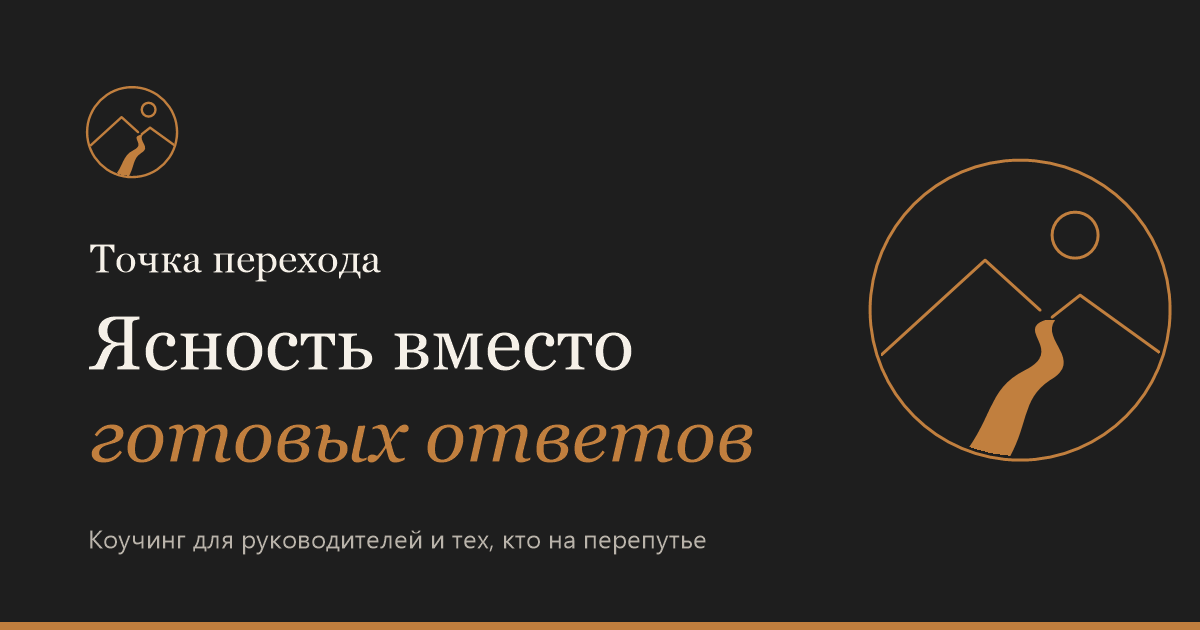
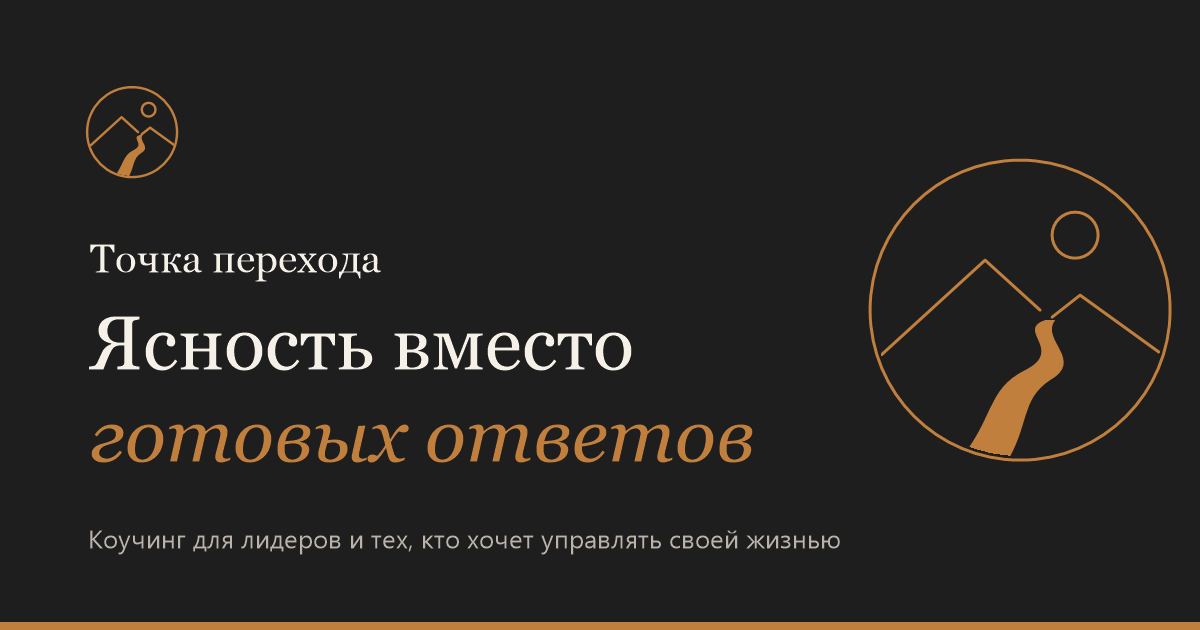
Новые фото и подзаголовок
Все фото заменены: лестница на первом экране, нити, кубик и камни
в «Что вы получаете», рука с ручкой в «Обо мне», знак LEAD AND
FOLLOW у «Роли руководителя», разговор и фото под водой в шагах,
портрет с ярлыками у чек-листа. Подзаголовок: «Коучинг для лидеров
и тех, кто хочет управлять своей жизнью», og-image обновлён.

Changed region(s): [[0.185, 0.8444, 0.7092, 0.8746]]

diff --git a/index.html b/index.html
@@ -3,16 +3,16 @@
 <head>
 <meta charset="utf-8">
 <meta name="viewport" content="width=device-width, initial-scale=1, viewport-fit=cover">
-<title>Точка перехода — коучинг для руководителей и тех, кто на перепутье</title>
+<title>Точка перехода — коучинг для лидеров и тех, кто хочет управлять своей жизнью</title>
 <meta name="description" content="Индивидуальный онлайн-коучинг: ясность в карьерных и жизненных переходах, поддержка руководителей. Ясность вместо готовых ответов.">
 <meta name="theme-color" content="#1E1E1E">
 <meta property="og:type" content="website">
 <meta property="og:locale" content="ru_RU">
-<meta property="og:title" content="Точка перехода — коучинг для руководителей и тех, кто на перепутье">
+<meta property="og:title" content="Точка перехода — коучинг для лидеров и тех, кто хочет управлять своей жизнью">
 <meta property="og:description" content="Индивидуальный онлайн-коучинг: ясность в карьерных и жизненных переходах, поддержка руководителей. Ясность вместо готовых ответов.">
 <meta property="og:site_name" content="Точка перехода">
 <meta name="twitter:card" content="summary_large_image">
-<meta name="twitter:title" content="Точка перехода — коучинг для руководителей и тех, кто на перепутье">
+<meta name="twitter:title" content="Точка перехода — коучинг для лидеров и тех, кто хочет управлять своей жизнью">
 <meta name="twitter:description" content="Индивидуальный онлайн-коучинг: ясность в карьерных и жизненных переходах, поддержка руководителей.">
 <link rel="canonical" href="https://igor-fedianin.com/">
 <meta property="og:url" content="https://igor-fedianin.com/">
@@ -100,10 +100,10 @@
 
   <!-- Hero: фото на всю ширину -->
   <section class="hero" id="top">
-    <img class="hero-bg" src="img/hero-transition.jpg" width="975" height="1300" alt="" fetchpriority="high">
+    <img class="hero-bg" src="img/hero-stairs.jpg" width="1920" height="1080" alt="" fetchpriority="high">
     <div class="wrap hero-inner">
       <div class="hero-main">
-        <p class="hero-eyebrow"><span class="dot" aria-hidden="true"></span>Коучинг для руководителей и тех, кто на перепутье</p>
+        <p class="hero-eyebrow"><span class="dot" aria-hidden="true"></span>Коучинг для лидеров и тех, кто хочет управлять своей жизнью</p>
         <h1>Ясность вместо<br><span class="h1-accent"><span class="arrow" aria-hidden="true">→</span> готовых ответов</span></h1>
       </div>
       <div class="hero-side">
@@ -125,19 +125,19 @@
         <article class="gain-card">
           <span class="check" aria-hidden="true"><svg viewBox="0 0 24 24"><path d="M6 12.5l4 4 8-9" fill="none" stroke="currentColor" stroke-width="2.2" stroke-linecap="round" stroke-linejoin="round"/></svg></span>
           <h3>Ясная картина<br>ситуации</h3>
-          <figure class="rounded-img"><img src="img/session-chairs.jpg" width="960" height="1200" alt="Два кресла напротив друг друга у светлого окна, двое людей во время разговора" loading="lazy"></figure>
+          <figure class="rounded-img"><img src="img/gain-thread.jpg" width="1400" height="933" alt="Руки, запутанные в красной нити" loading="lazy"></figure>
           <p>Вы отделяете факты от опасений и видите, что на самом деле происходит.</p>
         </article>
         <article class="gain-card">
           <span class="check" aria-hidden="true"><svg viewBox="0 0 24 24"><path d="M6 12.5l4 4 8-9" fill="none" stroke="currentColor" stroke-width="2.2" stroke-linecap="round" stroke-linejoin="round"/></svg></span>
           <h3>Реальные варианты<br>и критерии выбора</h3>
-          <figure class="rounded-img"><img src="img/mood-reading.jpg" width="736" height="980" alt="Человек в очках читает книгу у окна, чёрно-белое фото" loading="lazy"></figure>
+          <figure class="rounded-img"><img src="img/gain-cube.jpg" width="731" height="1300" alt="Разноцветный кубик Рубика в процессе сборки" loading="lazy"></figure>
           <p>Понятно, какие пути действительно существуют и по каким критериям между ними выбирать.</p>
         </article>
         <article class="gain-card">
           <span class="check" aria-hidden="true"><svg viewBox="0 0 24 24"><path d="M6 12.5l4 4 8-9" fill="none" stroke="currentColor" stroke-width="2.2" stroke-linecap="round" stroke-linejoin="round"/></svg></span>
           <h3>Конкретный<br>следующий шаг</h3>
-          <figure class="rounded-img"><img src="img/mood-key.jpg" width="1040" height="1300" alt="Латунный ключ на ручке зелёной двери" loading="lazy"></figure>
+          <figure class="rounded-img"><img src="img/gain-stones.jpg" width="975" height="1300" alt="Рука кладёт верхний камень на пирамиду из камней у реки" loading="lazy"></figure>
           <p>Каждая сессия заканчивается ближайшими действиями, а не общим «надо что-то менять».</p>
         </article>
       </div>
@@ -164,7 +164,7 @@
   <!-- Обо мне -->
   <section class="section white" id="about" aria-labelledby="about-h">
     <div class="wrap about">
-      <figure class="about-photo"><img src="img/igor.jpg" width="867" height="1300" alt="Игорь, коуч" loading="lazy"></figure>
+      <figure class="about-photo"><img src="img/about-writing.jpg" width="1400" height="933" alt="Рука с ручкой над листами на деревянном столе, рядом чашка" loading="lazy"></figure>
       <div class="about-text">
         <p class="eyebrow">Обо мне</p>
         <h2 id="about-h">Игорь</h2>
@@ -185,10 +185,10 @@
       </div>
       <div class="req-grid">
         <article class="req-card req-photo">
-          <img src="img/mood-sculpture.jpg" width="736" height="1104" alt="" loading="lazy">
+          <img src="img/req-lead.jpg" width="866" height="1300" alt="" loading="lazy">
           <div class="req-body">
-            <h3>Карьерные развилки</h3>
-            <ul><li>Уходить или оставаться на текущей работе</li><li>Смена профессии или начало с нуля</li></ul>
+            <h3>Роль руководителя</h3>
+            <ul><li>Переход из специалиста в руководителя</li><li>Повышение есть, а роста больше нет</li></ul>
           </div>
         </article>
         <article class="req-card">
@@ -205,8 +205,8 @@
         </article>
         <article class="req-card">
           <div class="req-body">
-            <h3>Роль руководителя</h3>
-            <ul><li>Переход из специалиста в руководителя</li><li>Повышение есть, а роста больше нет</li></ul>
+            <h3>Карьерные развилки</h3>
+            <ul><li>Уходить или оставаться на текущей работе</li><li>Смена профессии или начало с нуля</li></ul>
           </div>
         </article>
       </div>
@@ -234,8 +234,8 @@
         </ol>
       </div>
       <div class="approach-photos">
-        <figure class="rounded-img tall"><img src="img/mood-room.jpg" width="736" height="981" alt="Спокойная комната с лампой, двое людей беседуют в креслах" loading="lazy"></figure>
-        <figure class="rounded-img"><img src="img/mood-door.jpg" width="731" height="1300" alt="Деревянная дверь под светящейся вывеской вечером" loading="lazy"></figure>
+        <figure class="rounded-img tall"><img src="img/approach-talk.jpg" width="866" height="1300" alt="Двое людей разговаривают за столом, вид через стекло" loading="lazy"></figure>
+        <figure class="rounded-img"><img src="img/approach-water.jpg" width="975" height="1300" alt="Мужчина в белой рубашке под водой с закрытыми глазами" loading="lazy"></figure>
       </div>
     </div>
   </section>
@@ -247,6 +247,8 @@
         <p class="eyebrow">Если вы узнаёте себя</p>
         <h2 id="pains-h">С этими мыслями<br>приходят чаще всего</h2>
       </div>
+      <div class="pains-layout">
+      <figure class="rounded-img pains-photo"><img src="img/pains-labels.jpg" width="867" height="1300" alt="Чёрно-белый портрет: на лице наклеены бумажки со словами-ярлыками" loading="lazy"></figure>
       <ul class="pains">
         <li>Не понимаю, пора уходить или я просто устал.</li>
         <li>Боюсь начинать заново после многих лет в одной профессии.</li>
@@ -259,6 +261,7 @@
         <li>Команда перестала меня слышать.</li>
         <li>Мне неловко говорить о своих достижениях: кажется, что хвастаюсь.</li>
       </ul>
+      </div>
       <p class="pains-foot">Мы не ищем правильный ответ. Мы выясняем, что именно для вас сейчас важно.</p>
     </div>
   </section>

diff --git a/style.css b/style.css
@@ -122,7 +122,7 @@ main [id] { scroll-margin-top: 110px; }
 
 /* hero */
 .hero { position: relative; overflow: hidden; background: var(--graphite); color: var(--paper); }
-.hero-bg { position: absolute; inset: 0; width: 100%; height: 100%; object-fit: cover; object-position: 50% 30%; }
+.hero-bg { position: absolute; inset: 0; width: 100%; height: 100%; object-fit: cover; object-position: 82% 50%; }
 .hero::after {
   content: ""; position: absolute; inset: 0;
   background:
@@ -161,7 +161,7 @@ main [id] { scroll-margin-top: 110px; }
 /* обо мне */
 .about { display: grid; gap: 40px; align-items: center; }
 .about-photo { border-radius: var(--r); overflow: hidden; aspect-ratio: 4 / 5; max-width: 460px; width: 100%; background: var(--line); }
-.about-photo img { width: 100%; height: 100%; object-fit: cover; object-position: 50% 30%; }
+.about-photo img { width: 100%; height: 100%; object-fit: cover; object-position: 50% 50%; }
 .about-text { display: grid; gap: 18px; max-width: 58ch; min-width: 0; }
 .about-text h2 { font-size: clamp(40px, 8vw, 60px); }
 .about-text p:not(.eyebrow) { color: var(--muted); }
@@ -197,7 +197,9 @@ main [id] { scroll-margin-top: 110px; }
 .approach-photos .rounded-img.tall { margin-top: 40px; }
 
 /* чек-лист */
-.pains { list-style: none; padding: 0; display: grid; gap: 0; max-width: 920px; margin: 0 auto; border-top: 1px solid var(--line); }
+.pains-layout { display: grid; gap: 32px; align-items: start; max-width: 1040px; margin: 0 auto; }
+.pains-photo { aspect-ratio: 4 / 5; max-width: 420px; }
+.pains { list-style: none; padding: 0; display: grid; gap: 0; min-width: 0; border-top: 1px solid var(--line); }
 .pains li {
   position: relative; padding: 16px 0 16px 34px; border-bottom: 1px solid var(--line);
   font: 500 clamp(19px, 4.4vw, 22px)/1.35 var(--f-display);
@@ -322,8 +324,8 @@ main [id] { scroll-margin-top: 110px; }
   .req-card { min-height: 380px; }
   .approach { grid-template-columns: 1.1fr .9fr; gap: 64px; align-items: start; }
   .approach-photos { position: sticky; top: 100px; }
-  .pains { grid-template-columns: 1fr 1fr; column-gap: 48px; border-top: 0; }
-  .pains li:nth-child(1), .pains li:nth-child(2) { border-top: 1px solid var(--line); }
+  .pains-layout { grid-template-columns: .8fr 1.2fr; gap: 56px; }
+  .pains-photo { position: sticky; top: 100px; max-width: none; }
   .prices { grid-template-columns: repeat(4, 1fr); }
   .footer-grid { grid-template-columns: 1.3fr 1fr 1.3fr 1fr; }
 }

diff --git a/README.md b/README.md
@@ -30,7 +30,7 @@
 | --- | --- |
 | Telegram | Подключён: https://t.me/igor_fedianin |
 | `index.html`, FAQ | Платформа для видеосвязи; способы оплаты в евро |
-| `img/` | Проверить права на фото из галереи до запуска рекламы. На `mood-key.jpg`, `mood-sculpture.jpg`, `mood-door.jpg`, `mood-room.jpg` есть чужие бренды и надписи (в том числе «therapy») |
+| `img/` | Проверить права на фото до запуска рекламы (если фото со стоков вроде Unsplash, лицензия обычно разрешает коммерческое использование) |
 | `index.html`, футер | Реквизиты ИП; ссылки на Instagram, YouTube, VK |
 | Домен | Подключён: https://igor-fedianin.com (файл `CNAME`) |
 | `index.html`, JSON-LD FAQ | После заполнения платформы и оплаты добавить эти два вопроса в разметку |
